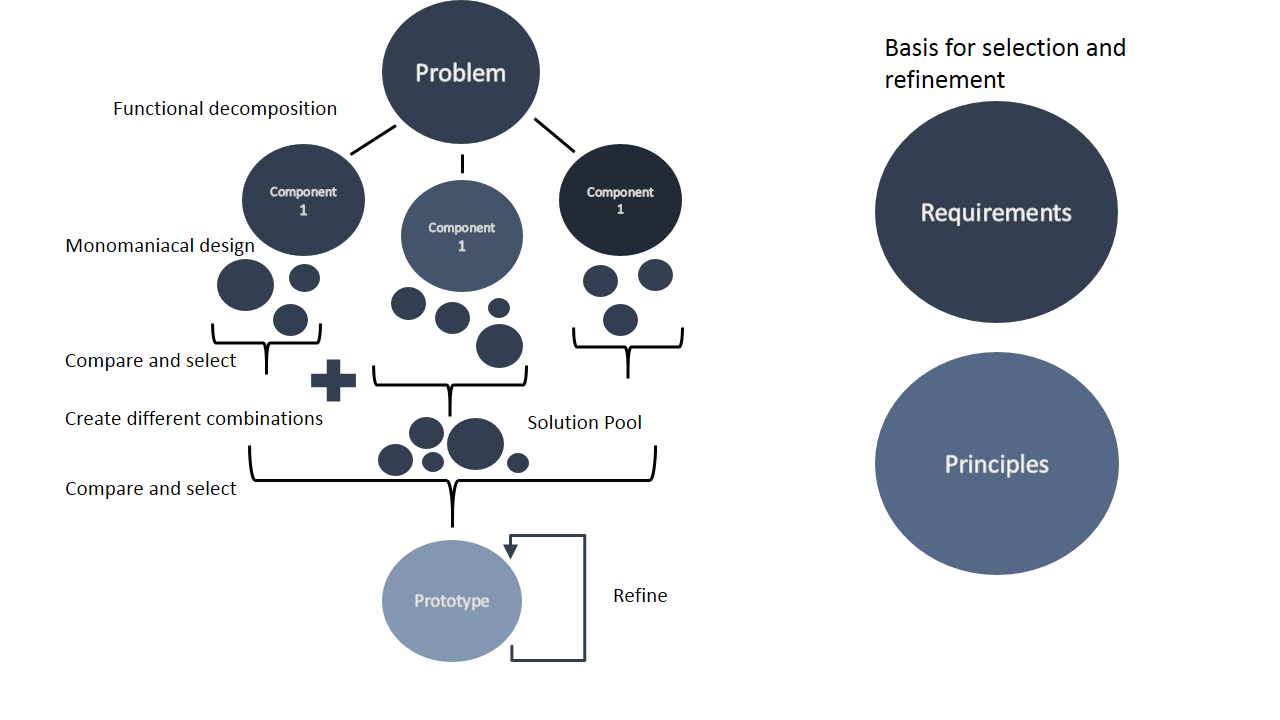
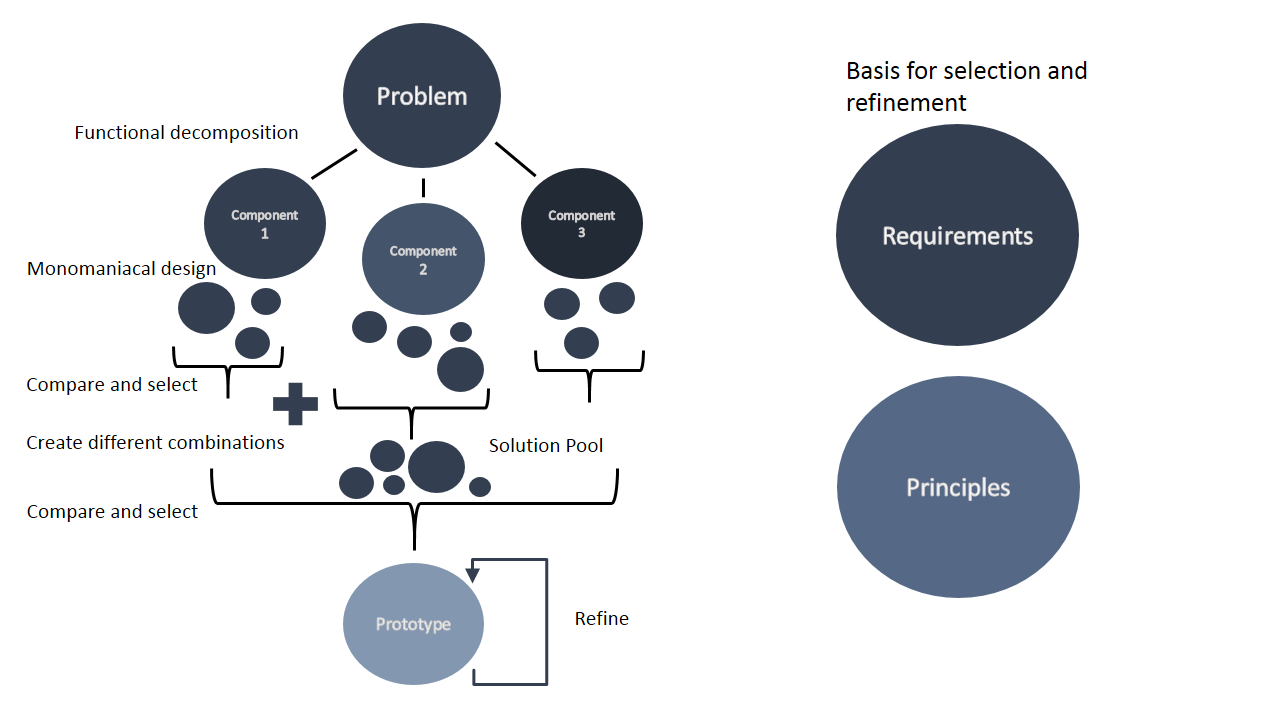
Removed font and fixed numbering issue for process.png

Changed region(s): [[0.0, 0.0, 0.5312, 0.9778], [0.6562, 0.0611, 0.875, 0.8556]]

diff --git a/main.css b/main.css
@@ -1,5 +1,5 @@
 body {
-	font-family: "Avant Garde", "Lucida Sans Unicode","Lucida Grande", "Dejavu Sans", Verdana, sans-serif ;
+	font-family: "Lucida Sans Unicode","Lucida Grande", "Dejavu Sans", Verdana, sans-serif ;
 	background-color: white;
 	margin: 0;
 	padding: 0px 0px 0px 0px;
